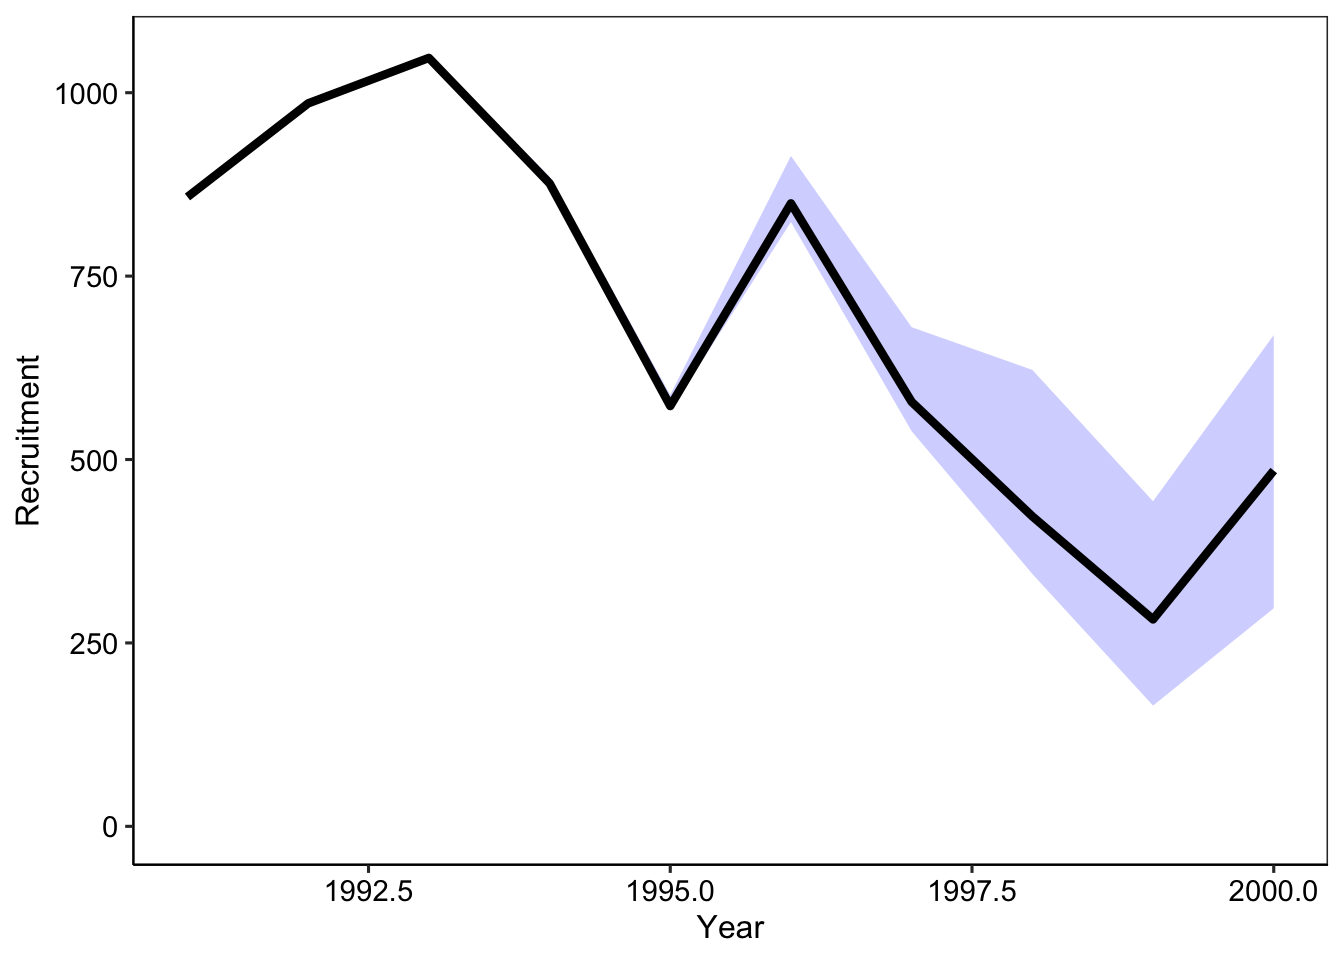
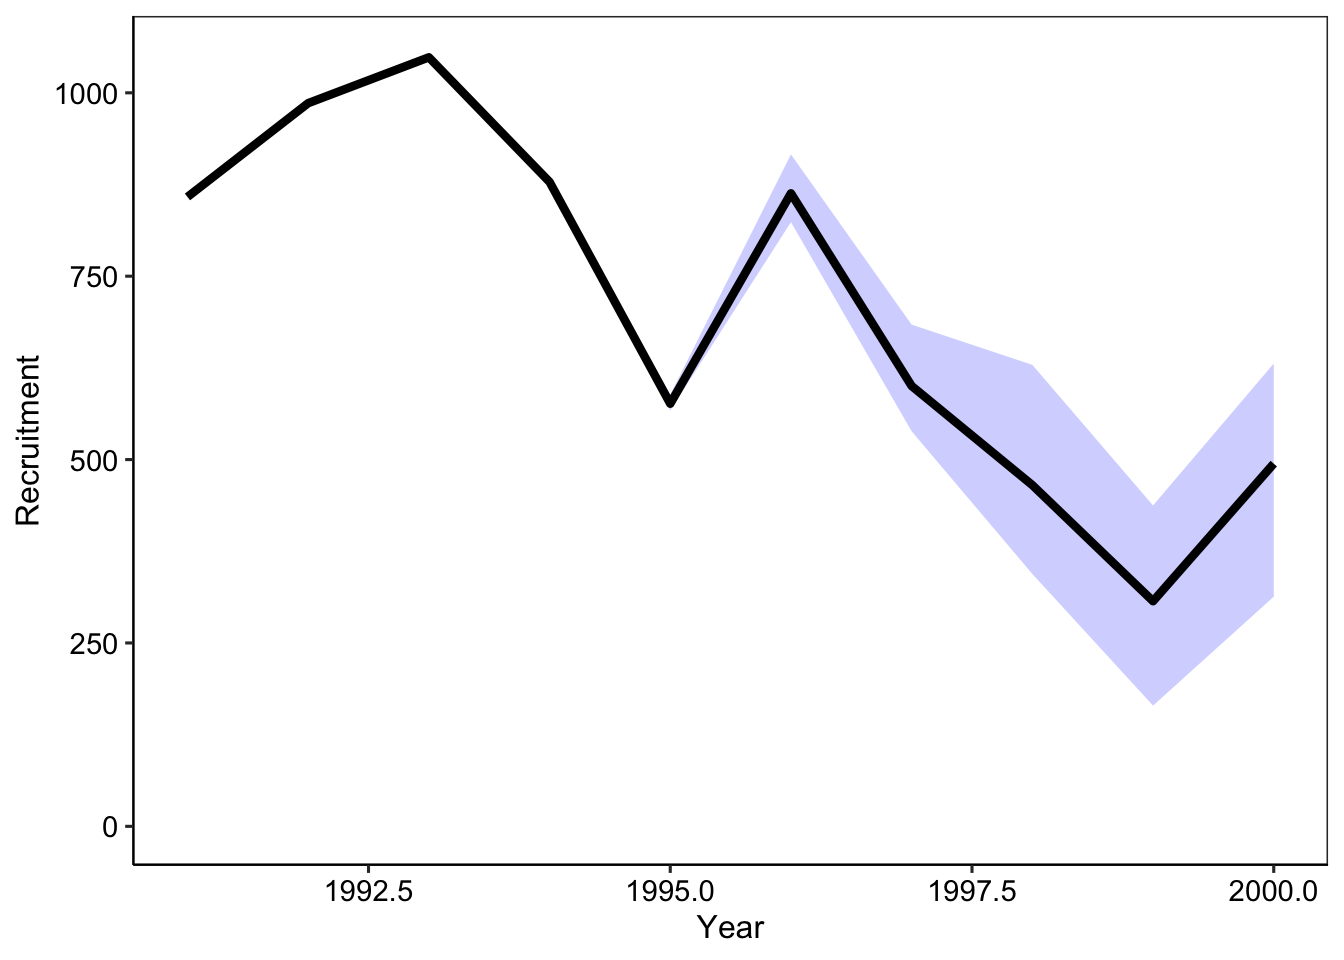
Built site for frasyr: 2.01@81a0755

diff --git a/index.html b/index.html
@@ -81,7 +81,7 @@
 
 <ul>
 <li>Fisheries Research Agency (FRA) provides the method for calculating sustainable yield (SY) with R</li>
-<li>水研機構で開発した，MSYを基礎とした目標管理基準値を計算するためのRのパッケージです．開発途中のものであること，ご承知おきください．</li>
+<li>VPAを用いた資源量推定と，その推定結果をもとにしてMSYを基礎とした目標管理基準値を計算するためのRのパッケージです．開発途中のものであること，ご承知おきください．</li>
 </ul>
 </div>
 <div id="使い方など" class="section level1">
@@ -96,15 +96,15 @@
 install.packages("devtools")
 
 # マスター版（最新・安定版）をインストールする場合
-devtools::install_github("ichimomo/frasyr")
+devtools::install_github("ichimomo/frasyr", build_vignettes=TRUE)
 
 # 開発中の最新版をインストールする場合（バグ可能性あり！）
 # ref=""で開発中のブランチを指定します。だいたい、"dev"ブランチに開発中のものがあります
-devtools::install_github("ichimomo/frasyr", ref="dev")
+devtools::install_github("ichimomo/frasyr", ref="dev", build_vignettes=TRUE)
 
 # 過去の安定版を指定してインストールする場合
 # @以下にリリースバージョンを指定します
-devtools::install_github("ichimomo/frasyr@v1.00")
+devtools::install_github("ichimomo/frasyr@v1.00", build_vignettes=TRUE)
 
 # 以上の操作をしてfrasyrをインストールしてから、以下のコマンドで呼び出します
 library(frasyr)
@@ -127,7 +127,13 @@ library(frasyr)
 <li>fit.parでL1の場合のSDをRMSEに統一</li>
 </ul>
 </li>
-<li>v2.10 : 6月上旬ごろアップ予定</li>
+<li>v2.1.0.0 : 2020年度資源評価会議用プロトタイプバージョン
+<ul>
+<li>VPAを用いたモデル診断スクリプトをvignetteに追加</li>
+<li>途中でプラスグループが変わる（対馬マイワシ）VPAの計算を修正</li>
+<li>ほか、関数のテストを充実。</li>
+</ul>
+</li>
 </ul>
 </div>
 <div id="マニュアル" class="section level1">
@@ -138,6 +144,13 @@ library(frasyr)
 </li>
 <li>VPAモデル診断スクリプト　<a href="https://ichimomo.github.io/frasyr/doc/Diagnostics-for-VPA.html">vignette</a>
 </li>
+</ul>
+<p>上記2つについてはRコマンドで以下のようにしても見れます。</p>
+<pre><code>library(frasyr)
+vignette(package="frasyr") # 利用可能なvignetteを調べる
+vignette("vpa",package="frasyr") # VPAの実施のしかた
+vignette("Diagnostics-for-VPA",package="frasyr") # VPAのモデル診断</code></pre>
+<ul>
 <li>再生産関係のモデル診断スクリプト <a href="https://ichimomo.github.io/frasyr/doc/SRR-guidline.html">wiki</a>
 </li>
 <li>将来予測関数の使い方：<a href="https://github.com/ichimomo/frasyr/wiki/future_new">wiki</a>

diff --git a/articles/Diagnostics-for-VPA.html b/articles/Diagnostics-for-VPA.html
@@ -604,8 +604,8 @@ Likelihood with estimated parameters is:  23.60018 </code></pre>
 <span class="co">for</span>(<span class="kw">i</span> <span class="co">in</span> <span class="fl">1</span><span class="op">:</span><span class="fl">50</span>) <span class="kw">res_tmp</span>[<span class="kw">i</span>] <span class="op">&lt;-</span> <span class="fu"><a href="https://rdrr.io/r/base/numeric.html">as.numeric</a></span>(<span class="kw">res_vpa_bootstrap</span><span class="op">$</span><span class="kw">res_boot</span>[[<span class="kw">i</span>]]<span class="op">$</span><span class="kw">Fc.at.age</span>[<span class="fl">4</span>])
 <span class="fu"><a href="https://rdrr.io/r/stats/quantile.html">quantile</a></span>(<span class="kw">res_tmp</span>, probs = <span class="fu"><a href="https://rdrr.io/r/base/c.html">c</a></span>(<span class="fl">0.025</span>,<span class="fl">0.5</span>,<span class="fl">0.975</span>))
 </pre></div>
-<pre><code>      2.5%        50%      97.5% 
- 0.4492490  0.8023649 21.8158190 </code></pre>
+<pre><code>        2.5%          50%        97.5% 
+   0.4449771    0.6731903 2346.9839502 </code></pre>
 <p>この他、各パラメータの相関関係について、ブートストラップ標本を基にプロットが得られます。</p>
 <div class="sourceCode" id="cb38"><pre class="downlit">
 <span class="kw">res_vpa_bootstrap</span><span class="op">$</span><span class="kw">plot_cor</span>
